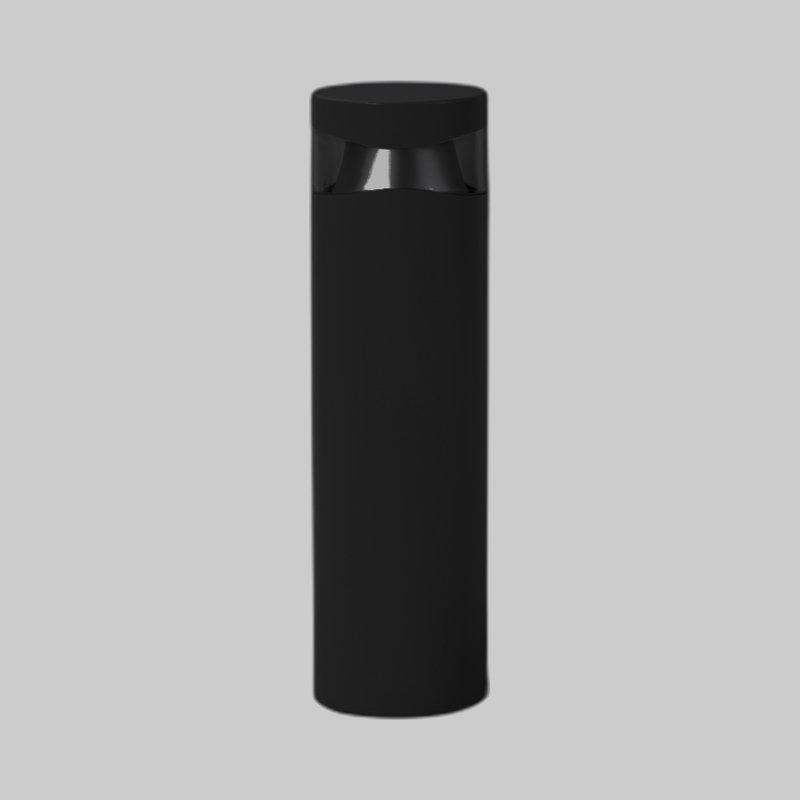
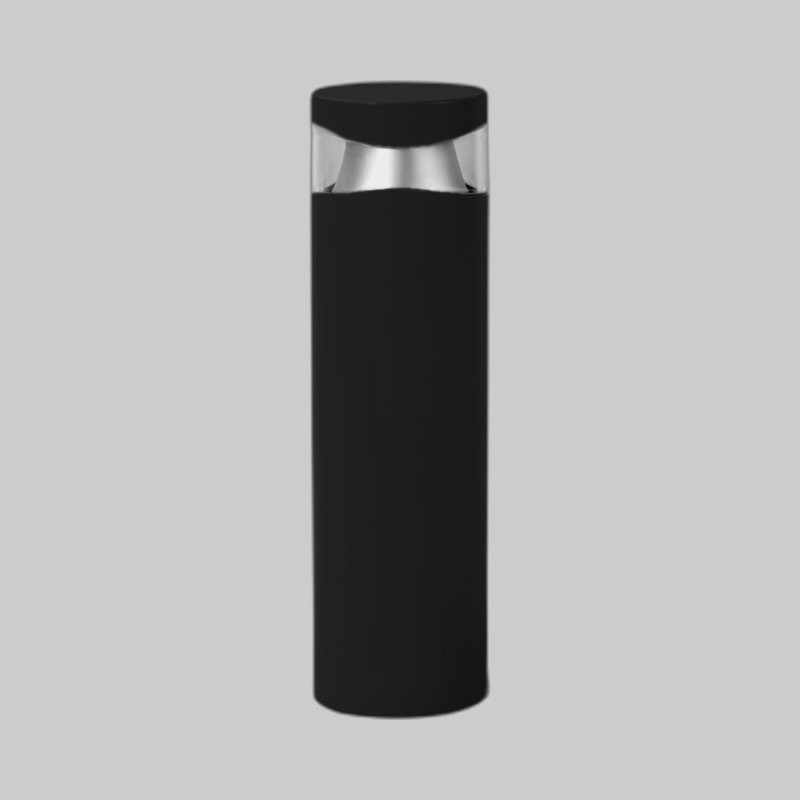
PUK Boulevard, Tron, Coiny: keep original glass and lens in anthracite/black photos
Claude-Session: https://claude.ai/code/session_013gY9EkMdQhEEWps6SMLP8q

Changed region(s): [[0.375, 0.1562, 0.625, 0.25]]

diff --git a/public/products/dea-carmenta-s/index.html b/public/products/dea-carmenta-s/index.html
@@ -614,7 +614,7 @@ footer a{text-decoration:none}footer a:hover{color:var(--accent-ink)}
 </div></header>
 
 <main id="app" aria-live="polite"><section class="pslider" aria-roledescription="carousel" aria-label="Dea Carmenta S"><div class="pslides" id="pslides"><div class="pslide" aria-roledescription="slide" aria-label="1 of 1"><img src="images/carmenta-slide-1.jpg" alt="Dea Carmenta S installed"></div></div>
-    <div class="ptext"><div class="wrap"><div class="inner"><div class="pt-title">Dea Carmenta S</div></div></div></div></section><div class="wrap"><div class="crumbs"><a href="#home">Home</a><span class="sep">/</span><a href="#interior">Interior</a><span class="sep">/</span><a href="#c-interior-recessed-downlight">Recessed Downlight</a><span class="sep">/</span><span>Dea Carmenta S</span></div>
+    <div class="ptext light"><div class="wrap"><div class="inner"><div class="pt-title">Dea Carmenta S</div></div></div></div></section><div class="wrap"><div class="crumbs"><a href="#home">Home</a><span class="sep">/</span><a href="#interior">Interior</a><span class="sep">/</span><a href="#c-interior-recessed-downlight">Recessed Downlight</a><span class="sep">/</span><span>Dea Carmenta S</span></div>
   <div class="p-top">
     <div class="p-info"><div class="p-intro"><h1>Dea Carmenta S</h1>
       <div class="sub">Recessed Downlight · Interior</div>

diff --git a/tools/archive/scripts/puk_glass_fix.py b/tools/archive/scripts/puk_glass_fix.py
@@ -1,0 +1,33 @@
+import numpy as np, glob, os, shutil
+from PIL import Image, ImageDraw, ImageFilter
+P={
+ 'boulevard/boulevard-01-180':[[(220,250),(250,262),(283,293),(330,304),(400,316),(470,322),(520,320),(560,310),(578,298),(584,300),(582,335),(545,382),(500,402),(450,416),(400,426),(300,426),(250,412),(224,392),(218,360)]],
+ 'boulevard/boulevard-01-360':[[(212,225),(250,251),(300,272),(350,283),(400,287),(450,282),(500,268),(550,250),(588,226),(589,368),(560,380),(500,381),(450,378),(400,372),(350,377),(300,381),(240,380),(211,368)]],
+ 'boulevard/boulevard-02-180':[[(314,145),(320,148),(345,155),(370,160),(400,165),(430,169),(455,170),(475,167),(485,161),(488,166),(486,180),(472,200),(445,211),(400,219),(360,218),(332,212),(318,200),(313,180)]],
+ 'boulevard/boulevard-02-360':[[(311,122),(330,131),(345,139),(370,145),(400,148),(430,145),(455,139),(472,131),(488,122),(489,193),(460,193),(430,190),(400,187),(370,189),(350,192),(311,193)]],
+ 'boulevard/boulevard-03-180':[[(344,108),(365,114),(400,119),(432,122),(456,120),(457,132),(450,137),(440,142),(420,149),(400,154),(370,156),(352,153),(344,148)]],
+ 'boulevard/boulevard-03-360':[[(346,109),(370,114),(400,118),(430,114),(454,108),(454,148),(440,147),(420,146),(400,144),(380,146),(370,147),(346,148)]],
+ 'tron/tron-180':[[(369,289),(548,289),(549,350),(546,368),(535,385),(515,398),(480,408),(440,415),(400,417),(369,418)]],
+ 'tron/tron-360':[[(249,277),(358,277),(358,420),(340,419),(300,410),(265,398),(250,385),(247,360)],[(430,280),(550,280),(551,350),(548,372),(535,390),(510,403),(470,413),(430,419)]],
+}
+def mask(polys,ell=None):
+    m=Image.new('L',(800,800),0);d=ImageDraw.Draw(m)
+    for p in polys: d.polygon(p,fill=255)
+    if ell: d.rounded_rectangle(ell,radius=28,fill=255)
+    return m.filter(ImageFilter.GaussianBlur(1.2))
+M={k:mask(v) for k,v in P.items()}
+M['coiny-bollard/coiny-bollard']=mask([],(254,121,376,213))
+def run(apply=False):
+    prev=[]
+    for k,m in M.items():
+        orig=Image.open(k+'-white-aluminium.jpg').convert('RGB')
+        for fin in ['anthracite-grey','black','matt-black']:
+            p=f'{k}-{fin}.jpg'
+            if not os.path.exists(p): continue
+            bak=f'/tmp/claude-0/glass/bak/{p.replace("/","__")}'
+            if not os.path.exists(bak): shutil.copy(p,bak)
+            rec=Image.open(bak).convert('RGB')
+            out=Image.composite(orig,rec,m)
+            if apply: out.save(p,quality=90,optimize=True)
+            prev.append((k,fin,rec,out))
+    return prev
